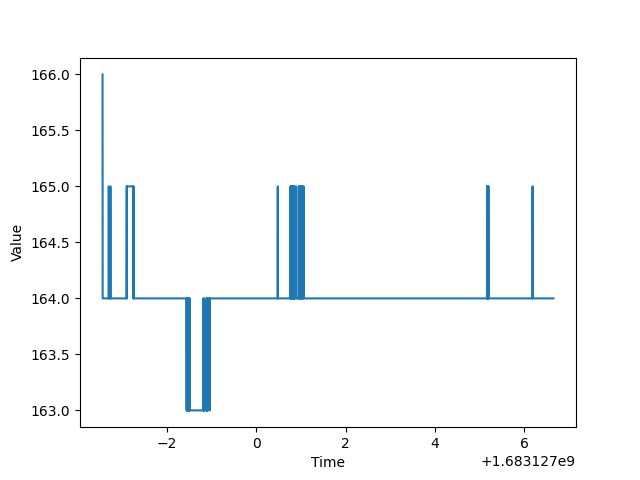
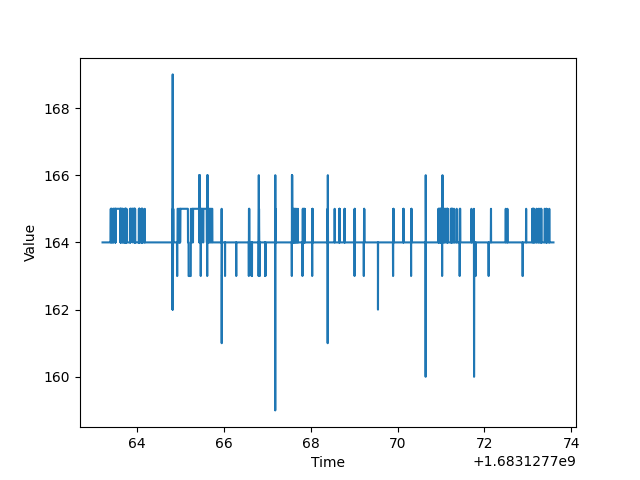
e

diff --git a/test_raspi/test_beat2.py b/test_raspi/test_beat2.py
@@ -1,0 +1,51 @@
+import smbus
+import numpy as np
+import scipy.signal as signal
+import time
+import csv
+
+bus = smbus.SMBus(1)
+data = np.zeros(1024)
+
+def read_pcf8591():
+    bus.write_byte(0x48, 0x40)
+    return bus.read_byte(0x48)
+
+framerate = 44100
+
+duration = 10 # seconds
+start_time = time.time()
+
+values1 = []
+values2 = []
+timestamps = []
+frequencies = []
+
+while time.time() - start_time < duration:
+    # Collecte des données
+    for i in range(data.shape[0]):
+        value = read_pcf8591()
+        timestamp = time.time()
+        timestamps.append(timestamp)
+        data[i] = value  # Ajout de l'échantillon au tableau de données
+
+    for d in data:
+        values1.append(d)
+
+    audio_fft = np.abs((np.fft.fft(data)[0:int(len(data)/2)])/len(data))
+    freqs = framerate*np.arange(len(data)/2)/len(data)
+
+    for d in freqs:
+        frequencies.append(d)
+    for d in audio_fft:
+        values2.append(d)
+
+def save_data(filename, values, ref):
+    with open(filename, 'w') as f:
+        writer = csv.writer(f)
+        writer.writerow(['timestamp', 'value'])
+        for i in range(len(values)):
+            writer.writerow([ref[i], values[i]])
+
+save_data('data1.csv', values1, timestamps)
+save_data('data2.csv', values2, frequencies)

diff --git a/test_raspi/plot_data.py b/test_raspi/plot_data.py
@@ -2,7 +2,7 @@ import pandas as pd
 import matplotlib.pyplot as plt
 
 # Read the CSV file
-df = pd.read_csv('test_raspi/data4.csv')
+df = pd.read_csv('test_raspi/data3.csv')
 
 # Extract the data from the DataFrame
 timestamps = df['timestamp']
@@ -12,4 +12,4 @@ values = df['value']
 plt.plot(timestamps, values)
 plt.xlabel('Time')
 plt.ylabel('Value')
-plt.savefig('plot4.png')
+plt.savefig('plot3.png')
